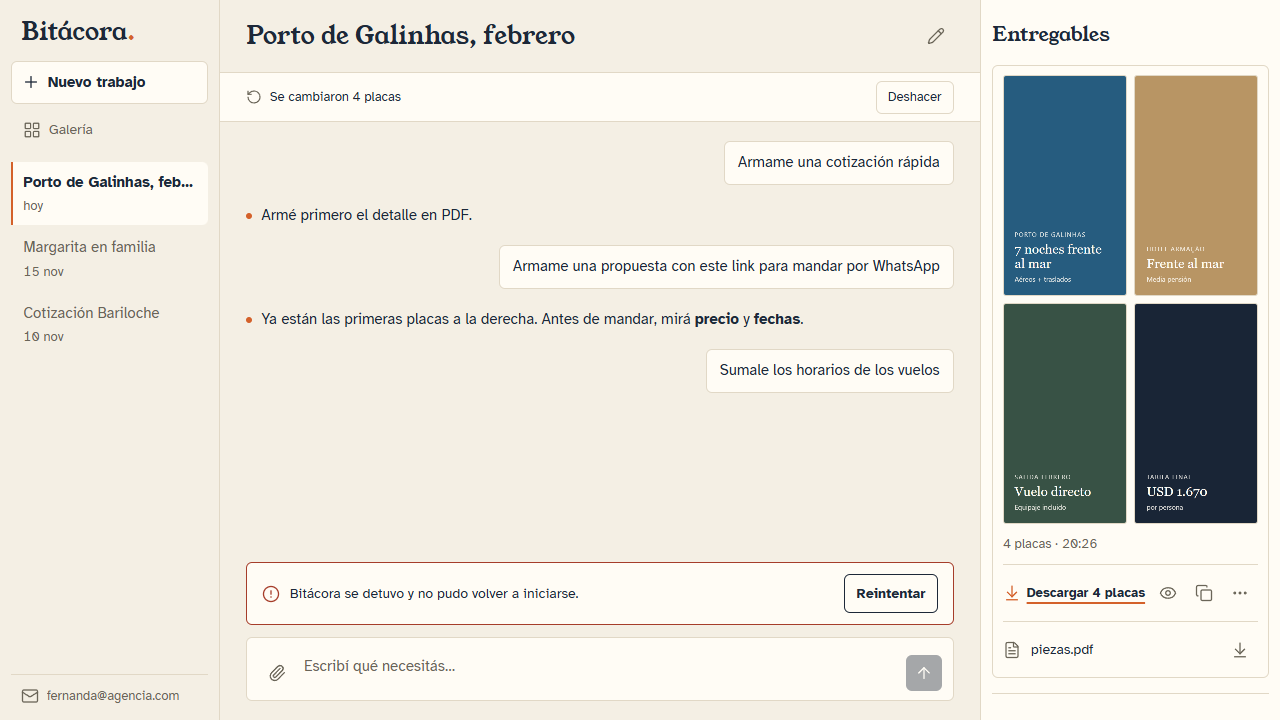
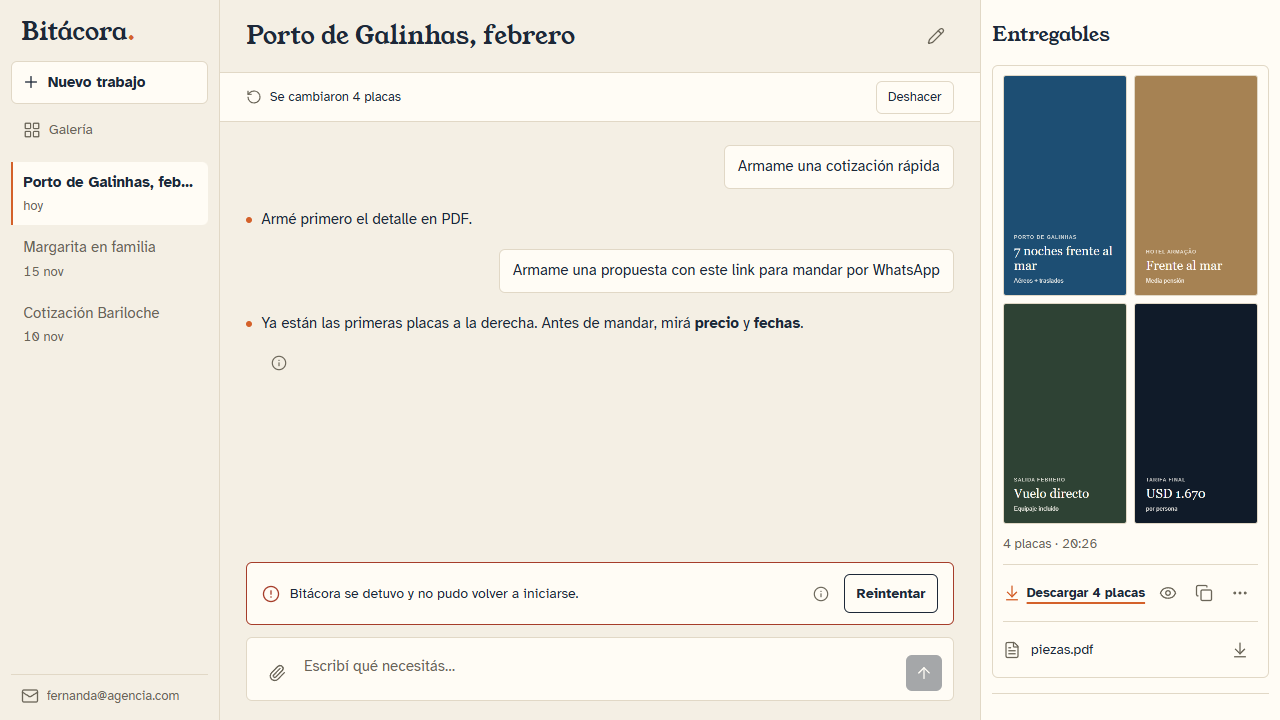
Clarify dot rule scope in design.md and refresh screenshots

diff --git a/design.md b/design.md
@@ -66,7 +66,7 @@ Bitácora es el cuaderno de a bordo de la agencia: un registro de lo que se hizo
 
 ## Patrones
 
-- **El punto del logo:** el círculo naranja de `6 px` (`--accent`) de «Bitácora.» es el marcador único de estado: aparece delante de cada respuesta de Bitácora y en la barra izquierda junto al trabajo en curso (sin texto naranja suelto como «ahora»).
+- **El punto del logo:** el círculo naranja de `6 px` (`--accent`) de «Bitácora.» es el marcador de estado en la barra izquierda (junto al trabajo en curso, en lugar de texto suelto como «ahora») y delante de cada respuesta de Bitácora.
 - **Progreso del agente:**
   - **Cierre como asiento:** cuando termina una respuesta, el asiento final se dibuja como una línea horizontal completa de `1 px` en `--line`, con la hora a la izquierda (`tabular-nums`) y «Listo.» a la derecha.
   - **Paso en curso:** «ahora» con `pen-line`, en `--accent-ink`.
@@ -74,13 +74,13 @@ Bitácora es el cuaderno de a bordo de la agencia: un registro de lo que se hizo
   - Sin porcentajes ni pasos técnicos visibles por defecto.
 - **Trabajos:** en la barra izquierda, el nombre ocupa la línea completa y debajo va la fecha corta en `--muted` (junto al punto naranja si está en curso). El activo va en `--surface`, con un filete naranja a la izquierda.
 - **Entregable:**
-  - Grilla de placas con `gap` de 8 px: 2 columnas hasta 4 placas, 3 columnas con 5 o más.
+  - Grilla de placas con `gap` de 8 px: 2 columnas hasta 4 placas, 3 columnas con 5 o más (muestra hasta 6 miniaturas y un tile `+N` en la sexta para abrir desde la placa 7).
   - Debajo, la línea de meta («4 placas · 14:05»); no se repite el nombre del trabajo si coincide con el encabezado.
   - **Descargar:** texto con ícono `arrow-down-to-line`, subrayado en `--accent`, indicando la cantidad cuando el lote tiene varias placas o imágenes («Descargar 4 placas») y solo «Descargar» para un único archivo. No es un botón relleno.
   - Si el lote trae un PDF junto a las placas, va dentro de la misma tarjeta debajo de una línea fina en `--line`, como fila con el ícono `file-text` y su nombre.
   - Lo demás va en íconos a la derecha: ver, copiar y «⋯».
   - Entregables anteriores: una fila con su ícono de bajar.
-- **Deshacer:** barra fija superior de una sola línea corta («Se cambiaron 4 placas» o «Hubo cambios en los archivos») con el pedido completo en `title` y el botón «Deshacer», sin desplazar la conversación al iniciar un nuevo pedido.
+- **Deshacer:** barra superior en flujo normal de una sola línea corta («Se cambiaron 4 placas» o el texto del pedido si no hay entregables) con el pedido completo en `title` y el botón «Deshacer».
 - **Errores:** un solo aviso rojo sobre la caja de texto (ícono, una frase llana y «Reintentar»), sin duplicar líneas en el registro ni en el pie de la barra izquierda.
 - **Cuenta:**
   - Conectada: abajo a la izquierda, el mail con el ícono `mail`. Sin puntito de estado.
